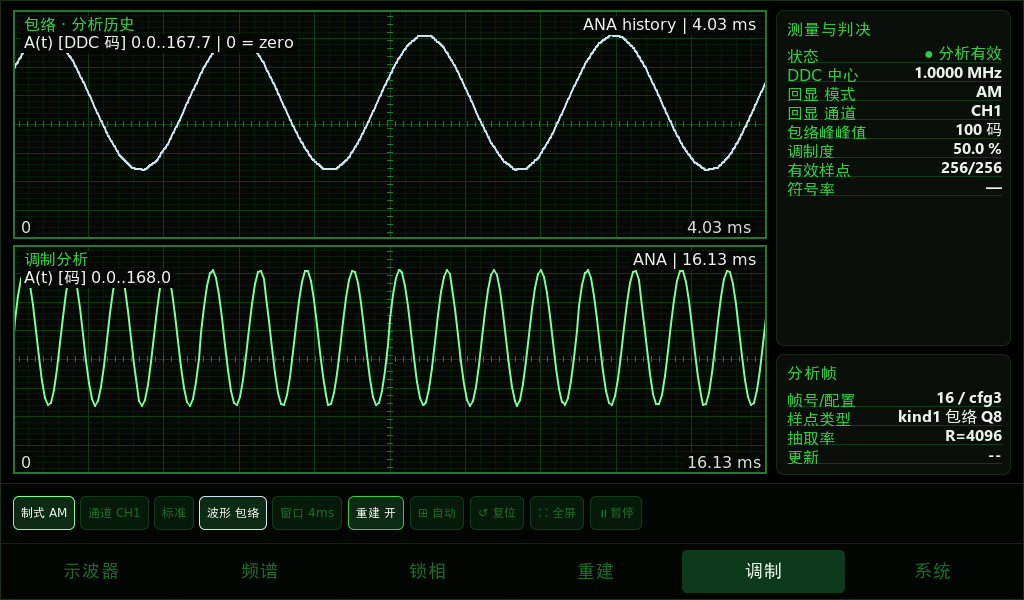
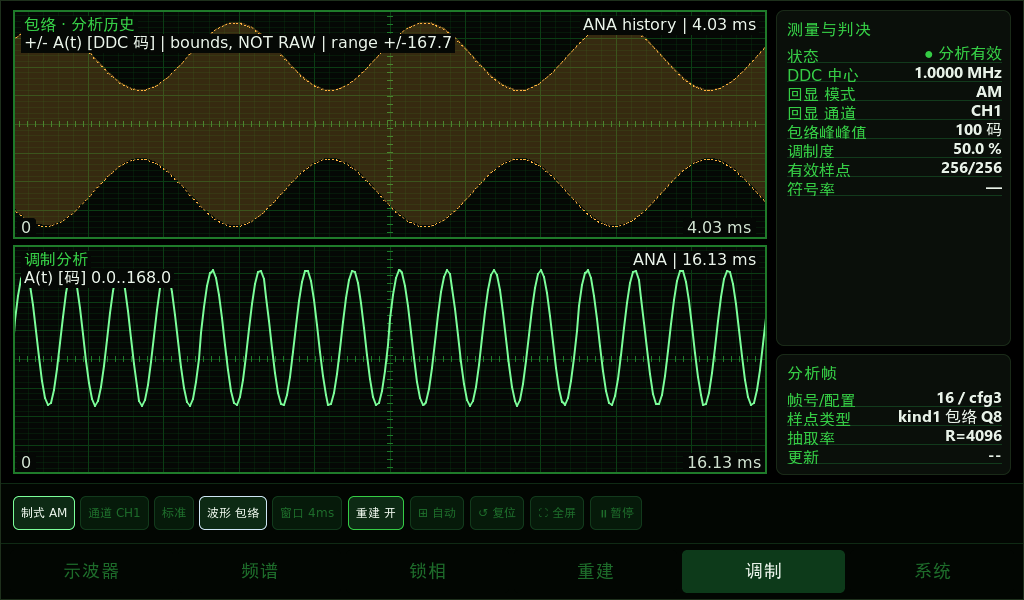
Show measured AM envelope bounds with shaded amplitude region

Changed region(s): [[0.0, 0.03, 0.75, 0.39]]

diff --git a/src/plot.c b/src/plot.c
@@ -67,6 +67,7 @@ typedef struct {
     float env_u[PLOT_MAX_PTS], env_d[PLOT_MAX_PTS];
     int   env_n;
     bool  env_vis;
+    bool  env_fill;
     float cur_x[4];          /* 竖线位置 0..1 */
     float cur_y[4];          /* 横线位置 0..1 */
 
@@ -243,12 +244,18 @@ void plot_set_envelope(lv_obj_t *plot, const float *up, const float *dn,
     plot_t *p = PLOT_OF(plot);
     if(p == NULL) return;
     p->env_vis = show && up && dn && n >= 2;
-    if(!p->env_vis) { if(p->env_n) { p->env_n = 0; lv_obj_invalidate(plot); } return; }
+    if(!p->env_vis) { p->env_fill=false; if(p->env_n) { p->env_n = 0; lv_obj_invalidate(plot); } return; }
     if(n > PLOT_MAX_PTS) n = PLOT_MAX_PTS;
     memcpy(p->env_u, up, (size_t)n * sizeof(float));
     memcpy(p->env_d, dn, (size_t)n * sizeof(float));
     p->env_n = n;
     lv_obj_invalidate(plot);
+}
+
+void plot_set_envelope_fill(lv_obj_t *plot, bool show)
+{
+    plot_t *p=PLOT_OF(plot);
+    if(p && p->env_fill!=show){p->env_fill=show;lv_obj_invalidate(plot);}
 }
 
 void plot_set_iq(lv_obj_t *plot, float phase_deg)
@@ -856,6 +863,21 @@ static void plot_draw_cb(lv_event_t *e)
             ed.color = V32_C_WARN;
             ed.width = 1;
             ed.opa   = LV_OPA_COVER;
+            if(p->env_fill && w>1){
+                ed.opa=LV_OPA_20;
+                for(int x=0;x<w;x++){
+                    float t=(float)x*(p->env_n-1)/(w-1);
+                    int a=(int)t,b=a+1<p->env_n?a+1:a;
+                    if(!isfinite(p->env_u[a]) || !isfinite(p->env_d[a]) ||
+                       !isfinite(p->env_u[b]) || !isfinite(p->env_d[b]))continue;
+                    float f=t-a;
+                    float u=p->env_u[a]+f*(p->env_u[b]-p->env_u[a]);
+                    float d=p->env_d[a]+f*(p->env_d[b]-p->env_d[a]);
+                    u=fminf(1.f,fmaxf(0.f,u));d=fminf(1.f,fmaxf(0.f,d));
+                    line(layer,&ed,x0+x,y0+(int)((1-u)*(h-1)),x0+x,y0+(int)((1-d)*(h-1)));
+                }
+                ed.opa=LV_OPA_COVER;
+            }
             draw_env_curve(layer, p->env_u, p->env_n, x0, y0, w, h, &ed);
             draw_env_curve(layer, p->env_d, p->env_n, x0, y0, w, h, &ed);
         }

diff --git a/tools/test_modulation_view.c b/tools/test_modulation_view.c
@@ -41,6 +41,11 @@ int main(int argc,char **argv)
 {
     assert(argc==2);snprintf(fixture,sizeof fixture,"/tmp/v32_modulation_view_%ld.bin",(long)getpid());float lo,hi,out[1024],v[3]={10,10,10};assert(mod_view_range(v,3,1,&lo,&hi)&&lo==0&&hi>10);
     v[1]=NAN;mod_view_resample(v,3,out,9,0,20);assert(isnan(out[4]) && isfinite(out[0]) && isfinite(out[8]));
+    float amp[5]={0,.5f,1,NAN,-1},up[5],dn[5];
+    mod_view_bounds(amp,up,dn,5);
+    assert(up[0]==.5f && dn[0]==.5f && up[1]==.75f && dn[1]==.25f);
+    assert(up[2]==1 && dn[2]==0 && isnan(up[3]) && isnan(dn[3]) && isnan(up[4]));
+    assert(amp[1]==.5f && isnan(amp[3]));
     assert(mod_view_count(256,65000000.0/4096,4)==64);
     lv_init();glyphs();lv_display_t *d=lv_display_create(1024,600);lv_display_set_color_format(d,LV_COLOR_FORMAT_XRGB8888);lv_display_set_buffers(d,pixels,NULL,sizeof pixels,LV_DISPLAY_RENDER_MODE_DIRECT);lv_display_set_flush_cb(d,flush_cb);
     fixture_write(1,3,1,0,0,0,1,1);char spec[128];snprintf(spec,sizeof spec,"file:%s",fixture);wave_source_v32_set_spec(spec);wave_source_select(&wave_source_v32);assert(wave_source_v32.init()==0);setenv("WAVE_SRC","real",1);
@@ -50,6 +55,7 @@ int main(int argc,char **argv)
     assert(strstr(lv_label_get_text(s_lbl_rawnote),"ANA history") && strstr(lv_label_get_text(s_lbl_rawnote),"4.03 ms"));
     assert(strstr(lv_label_get_text(s_lbl_modana_note),"16.13 ms"));
     assert(strstr(lv_label_get_text(s_lbl_modana_units),"A(t)"));save(argv[1],"envelope");
+    assert(strstr(lv_label_get_text(s_lbl_modraw_units),"bounds, NOT RAW"));
     uint32_t fcw=s_an_target_fcw;int pending=s_an_send_pending;
     cb_mod_view(NULL);draw(d);assert(s_mod_raw_view && s_an_target_fcw==fcw && s_an_send_pending==pending);
     assert(strstr(lv_label_get_text(s_lbl_rawnote),"us") && !strstr(lv_label_get_text(s_lbl_rawnote),"516"));save(argv[1],"raw");

diff --git a/tools/run_modulation_view_test.py b/tools/run_modulation_view_test.py
@@ -13,7 +13,7 @@ archives=list(build.rglob('liblvgl.a'));assert len(archives)==1,archives
 skip={'main.c.o','ui.c.o','plot.c.o','v32cap3.c.o','wave_source_v32.c.o'}
 objects=[x for x in (build/'CMakeFiles/waveform_demo.dir/src').rglob('*.o') if x.name not in skip]
 assert len(objects)>=14
-sources=[root/'src/ui.c',root/'src/modulation_view.h',root/'src/plot.c',root/'src/v32cap3.c',root/'src/v32cap3.h',root/'src/wave_source_v32.c',root/'src/wave_source.h',root/'tools/test_modulation_view.c']
+sources=[root/'src/ui.c',root/'src/modulation_view.h',root/'src/plot.c',root/'src/plot.h',root/'src/v32cap3.c',root/'src/v32cap3.h',root/'src/wave_source_v32.c',root/'src/wave_source.h',root/'tools/test_modulation_view.c']
 before={str(x.relative_to(root)):hashlib.sha256(x.read_bytes()).hexdigest() for x in sources}
 cmd=['gcc','-std=gnu99','-O1','-g','-fno-omit-frame-pointer','-fsanitize=address,undefined,float-cast-overflow','-DLV_CONF_INCLUDE_SIMPLE','-DLV_CONF_PATH='+str(root/'lv_conf.h'),'-DLV_LVGL_H_INCLUDE_SIMPLE','-I'+str(root/'src'),'-I'+str(a.lvgl.resolve()),'-I'+str(root),str(root/'tools/test_modulation_view.c'),str(root/'src/plot.c'),str(root/'src/v32cap3.c'),str(root/'src/wave_source_v32.c'),*[str(x) for x in objects],str(archives[0]),'-lm','-lpthread','-o',str(out/'test_modulation_view')]
 with (out/'compile.log').open('w') as f:r=subprocess.run(cmd,stdout=f,stderr=subprocess.STDOUT)

diff --git a/src/ui.c b/src/ui.c
@@ -4456,6 +4456,16 @@ static void mod_draw_upper(const v32_ana_view_t *av,bool have_ana,bool match)
     float lo,hi;if(!mod_view_range(src,count,av->kind==1u,&lo,&hi))return;
     mod_view_resample(src,count,y,PLOT_MAX_PTS,lo,hi);
     plot_set_mode(s_plot_modraw,PLOT_SCOPE);plot_hide_trace(s_plot_modraw,1);
+    if(av->kind==1u){
+        static float upper[PLOT_MAX_PTS],lower[PLOT_MAX_PTS];
+        mod_view_bounds(y,upper,lower,PLOT_MAX_PTS);
+        plot_hide_trace(s_plot_modraw,0);
+        plot_set_envelope(s_plot_modraw,upper,lower,PLOT_MAX_PTS,true);
+        plot_set_envelope_fill(s_plot_modraw,true);
+        lv_label_set_text(s_lbl_modraw_title,"包络 · 分析历史");
+        lv_label_set_text_fmt(s_lbl_modraw_units,"+/- A(t) [DDC 码] | bounds, NOT RAW | range +/-%.1f",(double)hi);
+        return;
+    }
     plot_set_trace(s_plot_modraw,0,y,PLOT_MAX_PTS,V32_C_CH1,2);
     lv_label_set_text(s_lbl_modraw_title,av->kind==1u?"包络 · 分析历史":"分析历史");
     if(av->kind==1u)lv_label_set_text_fmt(s_lbl_modraw_units,"A(t) [DDC 码] %.1f..%.1f | 0 = zero",(double)lo,(double)hi);

diff --git a/src/modulation_view.h b/src/modulation_view.h
@@ -27,6 +27,14 @@ static inline int mod_view_range(const float *y,int n,int nonnegative,float *lo,
     else {float d=b-a;if(d<1e-6f)d=fmaxf(fabsf(a)*.1f,1.f);*lo=a-d*.08f;*hi=b+d*.08f;}
     return 1;
 }
+/* Baseband magnitude bounds around zero, never a reconstructed RF waveform. */
+static inline void mod_view_bounds(const float *amplitude,float *upper,float *lower,int n)
+{
+    for(int i=0;i<n;i++){
+        if(!isfinite(amplitude[i]) || amplitude[i]<0){upper[i]=lower[i]=NAN;continue;}
+        upper[i]=.5f+.5f*amplitude[i];lower[i]=.5f-.5f*amplitude[i];
+    }
+}
 static inline void mod_view_resample(const float *src,int count,float *out,int n,float lo,float hi)
 {
     if(count<2 || n<2 || !(hi>lo)){for(int i=0;i<n;i++)out[i]=NAN;return;}

diff --git a/src/plot.h b/src/plot.h
@@ -88,6 +88,8 @@ void plot_set_axis_labels(lv_obj_t *plot, const char *left, const char *right);
  * 绘制在迹线之上、光标之下。 */
 void plot_set_envelope(lv_obj_t *plot, const float *up, const float *dn,
                        int n, bool show);
+/* Optional amplitude-region shading, not sampled carrier data. Off by default. */
+void plot_set_envelope_fill(lv_obj_t *plot, bool show);
 
 /* 测量光标：n<=4，xs 是竖线的相对位置 0..1，ys 是横线的相对位置 0..1。
  * 示波器页用 2 竖 + 2 横（时间光标 + 电压光标）。 */

diff --git a/docs/modulation-ui-20261026.md b/docs/modulation-ui-20261026.md
@@ -4,7 +4,8 @@
 
 ## 页面行为
 
-- 默认上图显示分析历史；AM 为真实包络 A(t)，保留零基准与实际噪声。下图显示当前 ANA 帧，两图分别标时间范围和单位。
+- 默认上图显示分析历史；AM 为真实 ANA 幅度的正负边界 ±A(t)，围成关于零对称的淡色填充区域，直观看出调幅轮廓。下图保留当前 ANA 帧的正幅度 A(t)，避免上下两图都只画一条正弦曲线。
+- 上图标 `bounds, NOT RAW`：负边界为正包络的镜像，填充仅表示幅度范围，不是实测 RF 载波、ADC 电压或正负两路采样。没有合成高频振荡，不能据此判断载波形状/失真。范围数字是绘图量程（含留白），不是测得峰值。两图分别标时间范围和单位，无效点和填充同时断开。
 - “波形 包络/原始”切换上图来源。原始视图保留 ADC 波形，按该 RAW 帧的实际抽取率计算时间轴，不能把 ANA 的历史时长标到 RAW 图上。
 - “窗口”提供 4/16/64/256/1024 ms 分析历史观察范围；不足时显示实际可用范围。原始视图沿用原有 RAW 缩放，该按钮禁用。
 - 这两个按钮仅改变本地显示，不发送配置命令、不递增 cfg、不触发重配预热。制式、通道、标准等原有设置按钮仍保留原来的下发逻辑。
@@ -34,7 +35,7 @@ sha256sum ../out/waveform_demo
 ## 验收与反馈
 
 1. 同一组已知 AM 输入（例如载波 1 MHz、调制 1 kHz、深度 50%），确认发生器 CH2 接 ADC CH0 时屏上选择 CH1。提供发生器实际读回设置。
-2. 默认包络视图上下图铺满绘图区，包络为正幅度、零基准可辨。R=4096、256 点时下图覆盖约 16.13 ms。上图默认约 4 ms，不足时用实际时长。
+2. 默认 AM 包络视图：上图金色正负轮廓与淡色填充围成调幅外形，下图绿色正幅度曲线。R=4096、256 点时下图覆盖约 16.13 ms。上图默认约 4 ms，不足时用实际时长。1 MHz 载波/1 kHz 调制时，65 MSPS 的4096点 RAW 只有约63 us，不足一个调制周期；上图轮廓来自 ANA，不冒充长时间 RAW。真正长窗实测 RF 需额外的 FPGA 峰值压缩数据链路，本补丁未实现该链路。
 3. 切到原始波形，若当前 RAW 只展示十个 1 MHz 周期，时间轴应约 10 us，不能仍显示 516 ms。下方 ANA 时间轴保持独立。
 4. 连续切换本地视图、窗口，记录 cfg 不因这两个控件变化，ANA 计数继续增加；同时检查页面制式/通道与真实回显一致。
 5. 保留 CRC、帧率、配置回显日志，上传原始/包络两张屏幕截图。暂停后图不动，恢复后继续；RAW 陈旧和 ANA 失效不能被画成正常实时数据。
